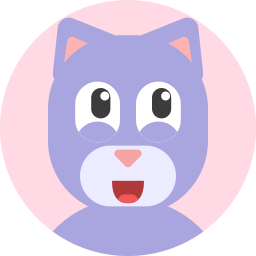
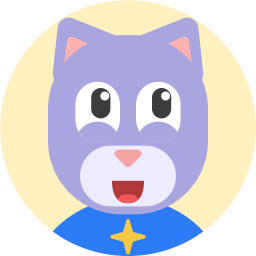
Avatares: fondos de la paleta de la app, suéter azul con la chispa dorada de la marca, hámster en lugar del pingüino, capibara con orejas más chicas

diff --git a/lib/avatars.ts b/lib/avatars.ts
@@ -7,7 +7,7 @@ export const AVATARS = [
   { id: 'leon',     label: 'León' },
   { id: 'capibara', label: 'Capibara' },
   { id: 'tigre',    label: 'Tigre' },
-  { id: 'pinguino', label: 'Pingüino' },
+  { id: 'hamster',  label: 'Hámster' },
 ] as const
 
 export type AvatarId = (typeof AVATARS)[number]['id']
